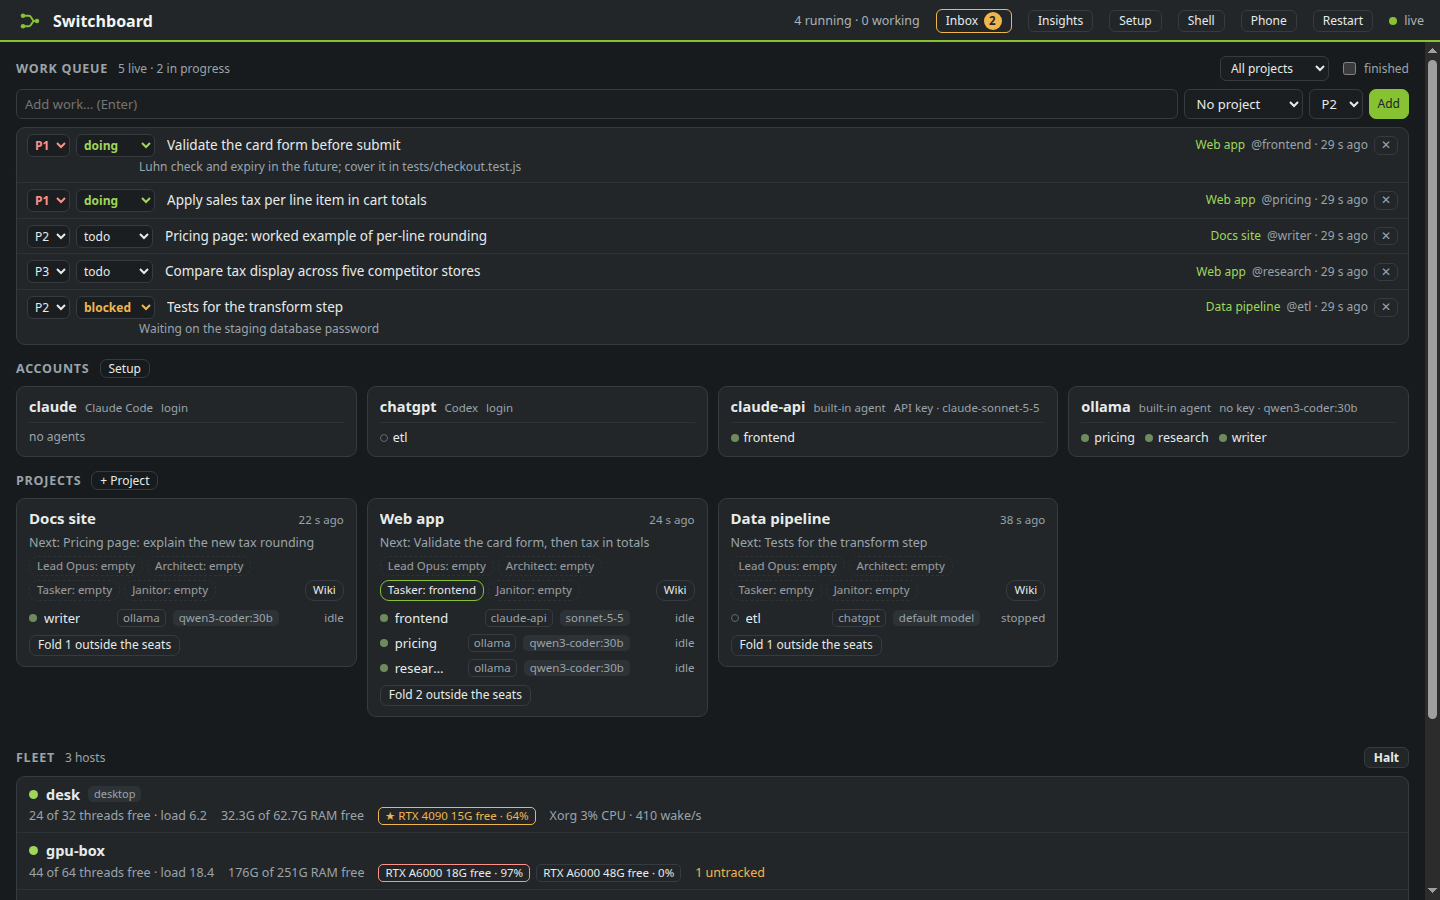
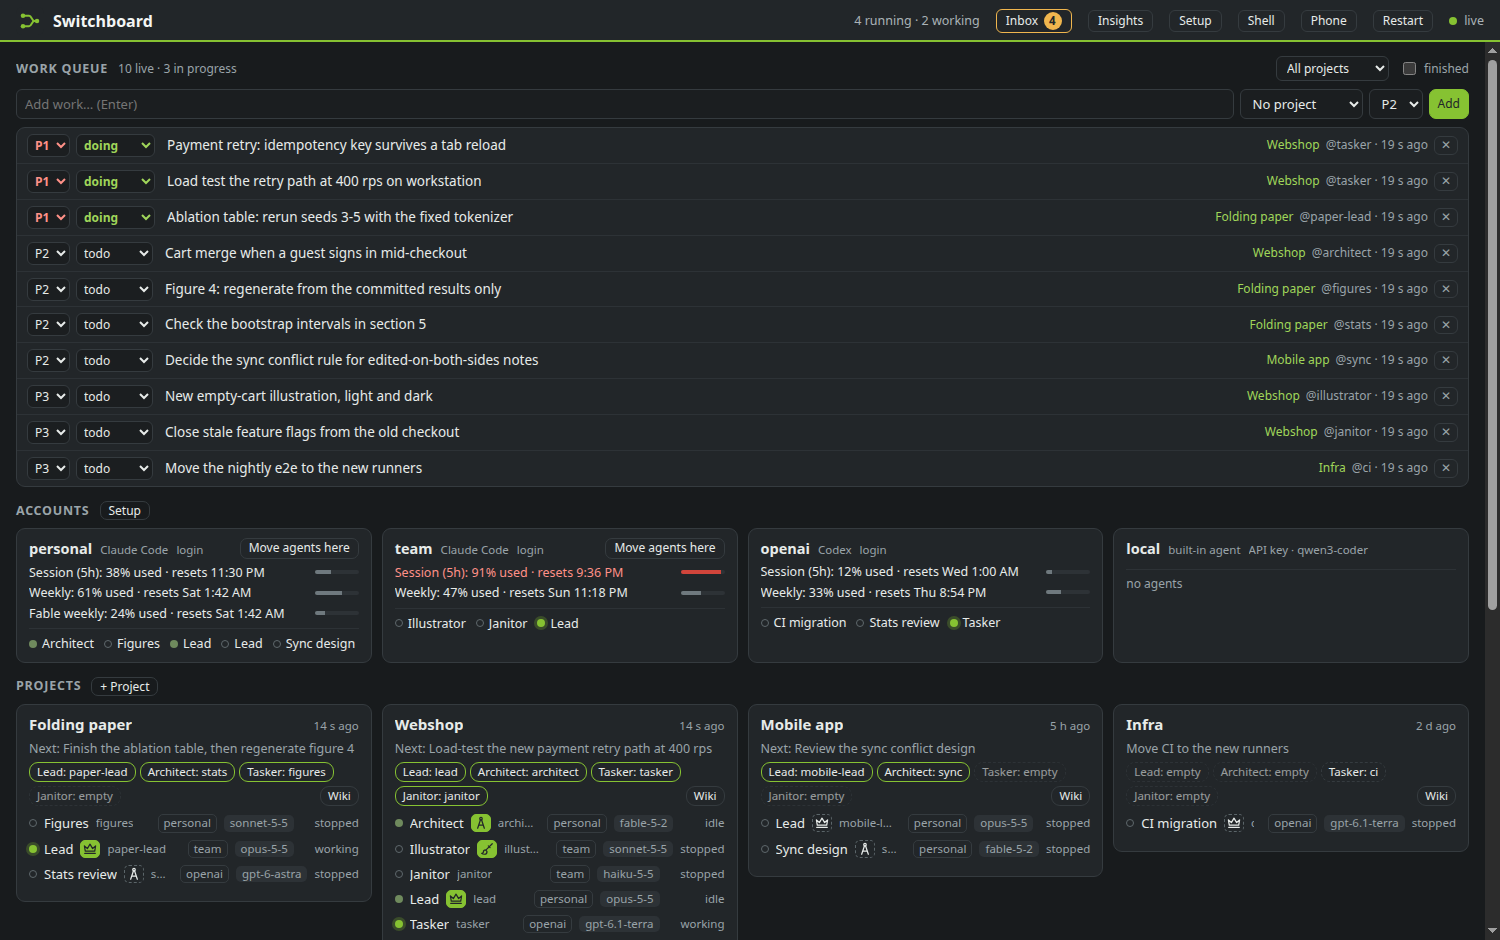
README and screenshots for the current build: seats and marks, rename, ghost agents, attest, wiki, kill project; account cards show limits

diff --git a/web/app.js b/web/app.js
@@ -181,6 +181,10 @@ function projectAgents(pid) {
   return [...S.agents.values()].filter((a) => a.project === pid)
     .sort((x, y) => { const i = order.indexOf(x.id), j = order.indexOf(y.id); return (i < 0 ? 1e9 : i) - (j < 0 ? 1e9 : j); });
 }
+function normLimit(l) {
+  const used = l.used != null ? l.used : (l.left != null ? 100 - l.left : null);
+  return { key: l.key || l.label, label: LIMIT_LABEL[l.label] || l.label || LIMIT_LABEL[l.key] || l.key, used, resets: l.resets };
+}
 function accountAgentIds(acc) {
   const ids = Array.isArray(acc.agents) ? acc.agents : [...S.agents.values()].filter((a) => a.account === acc.name).map((a) => a.id);
   return ids.filter((id) => S.agents.has(id));          // the Switchboard desk is not shown as an agent

diff --git a/web/style.css b/web/style.css
@@ -892,3 +892,6 @@ button.mk:hover { border-color: #86c232; opacity: 1; }
 .arow .mk.auto { color: var(--ink); }
 .rn-btn { padding: 0 5px !important; }
 .rn-in { font: inherit; font-size: 12.5px; font-weight: 600; width: 180px; padding: 1px 5px; border-radius: 5px; color: #f3f5f4; background: #161819; border: 1px solid #86c232; outline: none; }
+.pn-pick { min-width: 96px; flex: 0 1 auto; }
+.arow .ar-title { flex: 0 0 auto; max-width: 55%; }
+.arow .ar-id { flex: 0 1 auto; }

diff --git a/README.md b/README.md
@@ -1,65 +1,66 @@
 # Switchboard
 
-**One local page for all your projects and all your AI coding agents.**
+A local web page that runs your AI coding agents as terminals, grouped by project, on your own machine.
 
-Switchboard runs your agents (Claude Code, Codex, Gemini CLI, Hermes Agent, Antigravity CLI, or its own built-in
-agent for any OpenAI-compatible API) as real terminals in your browser, grouped by project. Agents can message each other, read each other's
-context on demand, and ask you questions without you juggling a dozen terminal tabs.
+Switchboard starts each agent as the vendor's own interactive CLI (Claude Code, Codex, Gemini CLI, Hermes Agent,
+Antigravity CLI) or as its built-in agent for any OpenAI-compatible API. Agents on a project can message each other,
+read each other's context on demand, and file questions for you. The hub listens on `127.0.0.1` only and keeps its
+state in `~/.local/state/switchboard`.
 
-![Overview: the work queue, your accounts, project cards with their agents, and the fleet](docs/screenshots/overview.png)
+![Overview: the work queue, accounts with their limits, and project cards with their agents](docs/screenshots/overview.png)
 
-- **Bring the subscriptions and keys you already have.** Claude Pro/Max, ChatGPT Plus/Pro, a Google account,
-  Anthropic / OpenAI / Gemini / OpenRouter API keys, or any OpenAI-compatible endpoint (Ollama, vLLM, LM Studio,
-  a company gateway). A setup page asks what you have the first time you open it.
-- **Agents are real terminals.** Each agent is the vendor's own interactive CLI (or the built-in agent) in a
-  pseudo-terminal that outlives the hub and your browser tab. Up to four side by side, full keyboard, image paste.
-- **Messages land exactly once.** `sb send <agent> "text"` types into that agent's terminal only when it's idle
-  with an empty input box (background jobs it left running don't count), then confirms the message from the session
-  transcript. It never types twice. Messages that arrive while an agent works go in together, as one batch that
-  names each sender (every message in full in a private file), and if the oldest has waited 5 minutes the agent
-  gets one Esc so the batch can land. A queue that doesn't move says why: paused, mid-turn, a draft in its input
-  box, or a choice on screen that only you can answer (never answered for you).
-- **Shared context, pulled on demand.** Agents on a project can run `sb context` to see what the others were
-  last asked and said, search their conversations, and leave notes. Nothing gets pushed into anyone's context.
-- **Projects are islands.** An agent acts inside its own project: it messages, reads and launches there and
-  nowhere else, and the hub knows who is calling from the calling process, not from what it claims. You open the
-  door per project (`sb reads`, `sb outside`); agents of the project named `switchboard` are yours and act anywhere.
-- **One work queue.** A master list on the overview that you and every agent edit (`sb work`), with priority,
-  status, owner agent and project.
-- **A memory per project.** When a conversation is cleared, goes quiet or its agent is removed, a small model
-  writes an outline of it and updates the project's running record. Every line cites the messages it came from,
-  and the hub throws away anything whose quote is not in the transcript (`sb memory`).
-- **See where the tokens go.** Insights (usage, cost, tools, activity per agent and project), a context view per
-  agent, and a team view of the traffic between a project's agents and you.
-- **Agents that keep going.** A Claude agent is cleared at a natural pause when its context passes its model's
-  limit, moved to another of your accounts before a usage limit stops it, and can hand one narrow task to a
-  temporary helper on a smaller model (`sb helper`).
-- **On your phone, and only your phone.** An optional gate lets exactly one paired phone in over HTTPS, through
-  Tailscale or your own domain. Scan a QR code to pair; pairing another phone signs the old one out.
-  [docs/PHONE.md](docs/PHONE.md)
-- **An inbox for you.** Agents ask decisions (`sb ask`) and page you (`sb notify`). A terminal stuck on a
-  permission prompt shows up there too.
+What it does:
 
-Everything stays on your machine: the hub listens on `127.0.0.1` only and keeps its state in
-`~/.local/state/switchboard`.
+- **Accounts you already have.** Claude Pro/Max, ChatGPT Plus/Pro, a Google account or Google AI plan, API keys for
+  Anthropic / OpenAI / Gemini / OpenRouter, or any OpenAI-compatible endpoint (Ollama, vLLM, LM Studio, a company
+  gateway). Setup asks what you have on first run.
+- **Agents are terminals.** Each agent runs in a pseudo-terminal that outlives the hub and the browser tab. One to
+  four panes side by side, full keyboard, image paste.
+- **Messages are typed once.** `sb send <agent> "text"` types into the agent's terminal only when it is idle with an
+  empty input box, then confirms the message from the session transcript. Messages that arrive while an agent works
+  are delivered together as one batch that names each sender. A queue that is not moving says why (paused, mid-turn,
+  a draft in the input box, or a choice on screen that only you can answer).
+- **Roles you can see and change.** Each project has seats (lead, architect, tasker, janitor). Three icons on every
+  agent's pane pin or unpin it as the project's lead, illustrator or architect; a message sent to a project goes to
+  its lead.
+- **Projects are separate.** An agent messages, reads and launches inside its own project. The hub identifies the
+  caller from the calling process, not from what it claims. You open access per project (`sb reads`, `sb outside`);
+  agents of the project named `switchboard` act for you across all projects.
+- **Shared context on demand.** `sb context` shows what the other agents on the project were last asked and said,
+  searches their conversations and holds short notes. `sb wiki` gives the project's goals, last deliverable, seats
+  and sessions on one page. Nothing is pushed into an agent's context.
+- **A work queue.** One list on the overview that you and every agent edit (`sb work`), with priority, status, owner
+  and project. An item can carry a check command that must pass before it can be marked done.
+- **Project memory.** When a conversation is cleared, goes quiet or its agent is removed, a small model writes an
+  outline of it and updates the project's record. Every line cites the messages it came from (`sb memory`).
+- **Checked claims.** `sb attest` has the hub check the jobs and files an agent names before it reports work as
+  done. An agent with the attest box ticked gets "Are you sure?" when a claim does not hold.
+- **Agents that keep going.** A conversation is cleared at a pause when its context passes its model's limit; an
+  agent is moved to another of your accounts before a usage limit stops it; an Antigravity terminal stuck on a
+  compact request or an API error is recovered or reported.
+- **Fleet and jobs.** `sb run` places work on the machines the hub can reach, as bounded systemd units tracked under
+  the agent that launched them. `sb halt` stops tracked work everywhere.
+- **Inbox and phone.** Agents file decisions (`sb ask`) and notices (`sb notify`); a terminal waiting on a
+  permission prompt appears there too. An optional gate lets one paired phone in over HTTPS
+  ([docs/PHONE.md](docs/PHONE.md)).
 
-| A project with two agents side by side | Agents ask you things in the Inbox |
+| A project: two agents side by side, with the lead, illustration and architect marks on tabs and panes | The inbox: questions with one-click answers |
 |---|---|
-| ![Two agent terminals on one project, each on a different account and model](docs/screenshots/project.png) | ![Inbox: an agent's question with one-click answers, and a need to acknowledge](docs/screenshots/inbox.png) |
+| ![Two agent terminals on one project; the tabs show which agent is lead, illustrator and architect](docs/screenshots/project.png) | ![Inbox: agents' questions grouped by project, with answer buttons](docs/screenshots/inbox.png) |
 
-| The fleet: hosts, jobs and untracked work | Insights: tokens, cost, tools and activity |
+| Projects with their seats, the fleet and tracked jobs | A project's team: who talked to whom |
 |---|---|
-| ![Fleet panel: three hosts with free threads, RAM and GPUs, and one untracked process](docs/screenshots/fleet.png) | ![Insights page: billed tokens, estimated cost, tool calls and per-agent cards](docs/screenshots/insights.png) |
+| ![Project cards with seats and marked agents, three hosts with free threads, RAM and GPUs, and four running jobs](docs/screenshots/fleet.png) | ![Team view: the agent network, message counts and a cross-agent timeline](docs/screenshots/team.png) |
 
-| A project's team: who talked to whom | First-run setup |
+| Insights: tokens, cost, tools and activity | First-run setup |
 |---|---|
-| ![Team view: the agent network, message counts and a cross-agent timeline](docs/screenshots/team.png) | ![Setup page: subscriptions detected on this machine, plus an Ollama endpoint tested and an OpenRouter key being added](docs/screenshots/setup.png) |
+| ![Insights page: billed tokens, estimated cost, tool calls and per-agent cards](docs/screenshots/insights.png) | ![Setup page: subscriptions detected on this machine and API endpoints](docs/screenshots/setup.png) |
 
 | Hermes Agent next to the built-in agent | Pair your phone with a QR code |
 |---|---|
 | ![A Hermes Agent terminal and a built-in agent terminal side by side on one project](docs/screenshots/hermes.png) | ![The Phone dialog showing a one-time QR code that pairs exactly one phone](docs/screenshots/phone-pair.png) |
 
-Every screenshot here is a demo instance with made-up projects, hosts and conversations.
+Every screenshot is a demo instance with made-up projects, hosts and conversations.
 
 ## Quick start
 
@@ -114,15 +115,29 @@ No systemd (e.g. WSL without it)? Run `./install.sh --no-service`, then start th
 
 ### The page
 
-- **Overview** (`#/`): the work queue, your accounts with the agents on each, a card per project, and the fleet.
-  `+ Project` makes a project with its own folder in your workspace; `+ Agent` on a card adds an agent (pick the
-  account, model, folder, or a session id to resume). Nothing launches until you open the agent or send to it.
-- **A project page**: its agents as tabs and 1 to 4 terminal panes. The control bar changes the focused agent's
-  account, model or project, pauses its queue, stops it, or removes it. Buttons along the top:
-  **Summon** (a side agent beside the focused one, optionally a fork of its whole conversation), **+ Shell**,
-  **Read out / Write out** (let this project read or write outside its folder), **Team**, **Insights**,
-  **Memory** (the project's memory files and conversation outlines; rewind an agent to before a message),
-  **Shared** (notes and what each agent last said), **Context** (what fills each agent's context) and **Sources**.
+- **Overview** (`#/`): the work queue, your accounts, a card per project, and the fleet.
+  - `+ Project` makes a project with its own folder in your workspace. `+ Agent` on a card adds an agent: pick the
+    account, model and folder, or give a session id to resume. Tick **Ghost** for an agent sealed to its own task:
+    it cannot read the project's context, memory or other agents, and every record of it is erased when you remove
+    it. Nothing launches until you open the agent or send to it.
+  - Each account card lists its agents and, when a usage reading exists, its limits and reset times.
+    **Move agents here** moves every agent of that type to the account and makes it the default for new ones.
+  - Each project card shows its seats. Click a filled seat to open its agent, an empty or stale one to start it from
+    the seat's brief. **Wiki** opens the project's live wiki. **Fold** retires the agents outside the seats; their
+    conversations go to the project's memory and stay resumable.
+- **A project page**: its agents as tabs (drag to reorder) and 1 to 4 terminal panes.
+  - Pane header: the agent picker, **✎** to rename the panel (no relaunch; the id other agents write to stays the
+    same; double-clicking a tab's name does the same), and three marks: crown for lead, brush for illustration,
+    compass for architect. Solid means you pinned it, a dashed outline means Switchboard chose that agent because
+    nobody is pinned. Click to pin or unpin. Pinning the lead changes where `sb send <project>` lands.
+  - **attest** on a pane makes that agent back any "done" with `sb attest`.
+  - **Context** shows what fills the agent's context, **Memory** its memory files and conversation outlines,
+    **Transcript** rewinds it to before one of its messages or edits an entry.
+  - The control bar changes the focused agent's account, model or project, pauses its queue, stops it, or removes it.
+  - Along the top: **Summon** (a side agent beside the focused one, optionally a fork of its whole conversation),
+    **+ Shell**, **Read out / Write out** (let this project read or write outside its folder), **Team**,
+    **Insights**, **Memory**, **Shared** (notes and what each agent last said), **Context**, **Sources**, and
+    **Kill project** (removes the project's agents, conversations and hub records; its files stay).
 - **Inbox** (top bar, or `#/inbox`): every open question (`sb ask`) and need (`sb notify`) agents filed for you,
   grouped by project. Answer, acknowledge, dismiss or ignore. A terminal stuck on a permission prompt shows up too.
 - **Insights** (top bar): usage across every agent, by day, project, model and tool.
@@ -139,7 +154,10 @@ sb send <agent|project> "text"     message an agent once (a project goes to its 
 sb context [agent] [--search w]    what the other agents on this project are doing / said
 sb note "text"                     leave a short note for the project's other agents
 sb memory [n] [--at M]             the project's running memory; one conversation's outline; a message in full
-sb work | sb work add "title" | sb work done <n>     the master work queue
+sb wiki                            the project's goals, last deliverable, seats and sessions
+sb whoami                          who you are here and what your project may reach
+sb attest --claim "..." [--job ID] [--file PATH]     have the hub check your evidence before you report done
+sb work | sb work add "title" [--check 'cmd'] | sb work done <n>     the master work queue
 sb ask "question" --options a,b    ask the owner a decision (the answer arrives as a message)
 sb notify "text" [--info]          put something in the owner's inbox
 sb summon <agent> "task" [--fork]  start a side agent beside another
@@ -163,6 +181,9 @@ sb reads PROJECT P2 ...            let PROJECT's agents read P2's context and fi
 sb outside PROJECT --read on|off --write on|off     let PROJECT read / write outside its folder
 sb sessions "words" / sb resume <id>   find and reopen a past Claude / Codex / built-in session
 sb dispatch <project> "task"       start a new agent on a project with one task
+sb nodes PROJECT [--set ROLE --agent A] [--pickup ROLE] [--fold]     a project's seats and who holds each
+sb trust [--require|--release AGENT]   claims the hub checked per agent; tick or untick an agent's attest box
+sb projects kill <project>         remove a project's agents, conversations and hub records (files stay)
 sb halt | sb unhalt                stop tracked jobs everywhere and keep them stopped
 sb memory --usage | --off | --cap N    what project memory costs, and its switches
 sb retention                       what the hub keeps and for how long
@@ -175,9 +196,10 @@ work across all the others.
 
 Three layers, each citing the one below: the project's memory (a short record, every line ending in its source), an
 outline per conversation (points under ASKED / DONE / DECIDED / OPEN, each quoting the messages it came from), and
-the transcript on disk. The outlines are written by a small Claude model (Haiku, no tools) through a Claude account,
-so it needs one; secrets are redacted before anything is sent; the cost is capped per day; and nothing is pushed to
-agents. They are told it exists and pull it with `sb memory`.
+the transcript on disk. The outlines are written by a small model with no tools: Claude Haiku through a Claude
+account, else a small Gemini model through the Antigravity CLI, else a small Codex model. Secrets are redacted before
+anything is sent, the cost is capped per day, and nothing is pushed to agents: they are told it exists and pull it
+with `sb memory`.
 
 ### Accounts that run out
 
@@ -185,7 +207,8 @@ If you have more than one Claude account, an agent whose account hits a usage li
 and told to carry on; both accounts must share transcripts (point their `projects/` folders at the same place).
 Switchboard can also move an agent *before* the limit if something tells it how full each account is: write
 `~/.cache/switchboard/usage.json` (format at the top of `switchboard/accounts.py`) and the limits appear on the
-account cards.
+account cards. Accounts listed as parked in the handoff settings are never picked automatically. An Antigravity
+account reads its limits from `agy` itself, and shows Google Colab compute units when the `colab` CLI is signed in.
 
 **The built-in agent** is a small terminal coding agent (`switchboard/agent.py`) for any OpenAI-compatible
 endpoint. It has four tools (run a shell command, read, write, and edit files) and asks before every command or edit
@@ -194,7 +217,8 @@ saved under `~/.local/state/switchboard/api-sessions/` and can be searched and r
 sessions.
 
 **Antigravity CLI** (`agy`) runs on a Google AI subscription. It has no system-prompt flag, so a new conversation
-opens with Switchboard's note; its conversations are read from `~/.gemini/antigravity-cli`.
+opens with Switchboard's note; its conversations are read from `~/.gemini/antigravity-cli`. A terminal whose turn
+ends asking for `/compact` gets it typed, and one whose turn dies on an API error is reported in the inbox.
 
 **Hermes Agent** runs as `hermes chat` with your own Hermes config (models, providers, skills). Switchboard passes
 its note in `HERMES_EPHEMERAL_SYSTEM_PROMPT` (sent with each call, never stored), finds the new session in
@@ -209,7 +233,8 @@ in `~/.config/switchboard/hosts.json`; this machine alone with no file), with fr
 to launch work: placed on a host that has room, run as a bounded systemd unit in its own slice, tracked under the
 agent that launched it (`sb jobs`, `sb stop`). `sb halt` stops tracked jobs and raises a flag that systemd itself
 honours, so timers and restart loops cannot bring work back until `sb unhalt`. A tiny job (one thread, no GPU, at
-most an hour) and jobs of projects you list under `jobs.priority_projects` go ahead of the queue. Heavy processes
+most an hour) and jobs of projects you list under `jobs.priority_projects` go ahead of the queue, in the order
+listed. After 20 minutes a job is booked at what it uses, not what it declared. Heavy processes
 that were not launched with `sb run` show up as untracked, with Adopt and Stop. Details: [docs/FLEET.md](docs/FLEET.md).
 
 ## Files
@@ -251,6 +276,7 @@ for t in tests/test_*.py; do python3 -m unittest tests.$(basename $t .py) || bre
 
 `tests.test_terminals` drives real ptys with a fake CLI and takes a couple of minutes; run it on its own. A few
 cases are skipped for now: they describe the earlier router chat and need rewriting for project isolation.
+`tests.test_placers` reads the CPUs really in use on the machine it runs on, so its pinning case can fail on a busy host.
 
 The browser checks drive a headless Chromium (set `CHROME=/path/to/chrome`, or `npx playwright install chromium`)
 against a test-mode hub whose agents run `tests/fake_cli.py`:
@@ -276,8 +302,9 @@ top of the file).
   message from the screen and doesn't record replies. Past-session search covers Claude Code, Codex and the built-in
   agent; `sb context` also covers Hermes.
 - Hermes Agent and Antigravity run in terminals only and can't be forked by Summon.
-- Project memory, auto-clear and account handoff are for Claude Code agents. The memory writer needs a Claude
-  account.
+- Auto-clear covers Claude Code, Codex and Antigravity agents. Account handoff is for Claude Code agents. The
+  memory writer needs a Claude account, the Antigravity CLI or Codex.
+- Claim checks (`sb attest`) verify job ids and file paths; they do not judge whether the work is correct.
 - Optional: if you run agents inside tmux, Switchboard also finds Claude and Codex sessions open there and lists
   them. It works without tmux.
 

diff --git a/docs/ARCHITECTURE.md b/docs/ARCHITECTURE.md
@@ -35,13 +35,18 @@ browser ──HTTP/WebSocket──▶ hub (hub.py) ──unix socket──▶ pt
 | `boardwatch.py`, `leasedecay.py` | optional, with a GPU workboard: page when a host's cards go stale, and release leases that sit idle |
 | `memory.py` | project memory: an outline per ended conversation and a short running record, each line citing its source |
 | `retention.py` | what the hub keeps and for how long; one sweep at start and every few hours |
-| `autoclear.py` | clears a Claude agent's context at a natural pause once it passes its model's limit, instead of compacting |
+| `autoclear.py` | clears a Claude, Codex or Antigravity agent's context at a natural pause once it passes its model's limit, instead of compacting |
 | `handoff.py`, `accounts.py` | moves a Claude agent to another account before (or when) its account runs out; limits come from an optional usage cache |
 | `helpers.py` | temporary helpers: one narrow task on a smaller model, with a deadline |
-| `nodes.py` | the same seats on every project (lead, architect, tasker, janitor) and the project wiki |
+| `nodes.py` | the same seats on every project (lead, architect, tasker, janitor), the lead / illustrator / architect marks the owner pins on agents, and the project wiki |
 | `insights.py`, `trace.py`, `team.py` | the Insights page, one agent's context view, a project's team view |
 | `rewind.py` | owner tools on one agent's history: memory files and rewinding to before a message |
-| `antigravity.py` | Google Antigravity CLI sessions, read as transcripts |
+| `antigravity.py` | Google Antigravity CLI sessions, read as transcripts; its usage and quota readings |
+| `stuck.py` | an Antigravity terminal at rest on a compact request or an API error: typed past, relaunched, or reported |
+| `claims.py` | `sb attest` and claim checks: job ids and file paths an agent names are checked before "done" is passed on |
+| `ghost.py` | ghost agents: sealed to their own task, erased when removed |
+| `kill.py` | removing a project entirely: agents, conversations and hub records; files stay |
+| `colab.py` | Google Colab compute units on the Antigravity account card, read from the `colab` CLI |
 
 ## Accounts and providers
 
